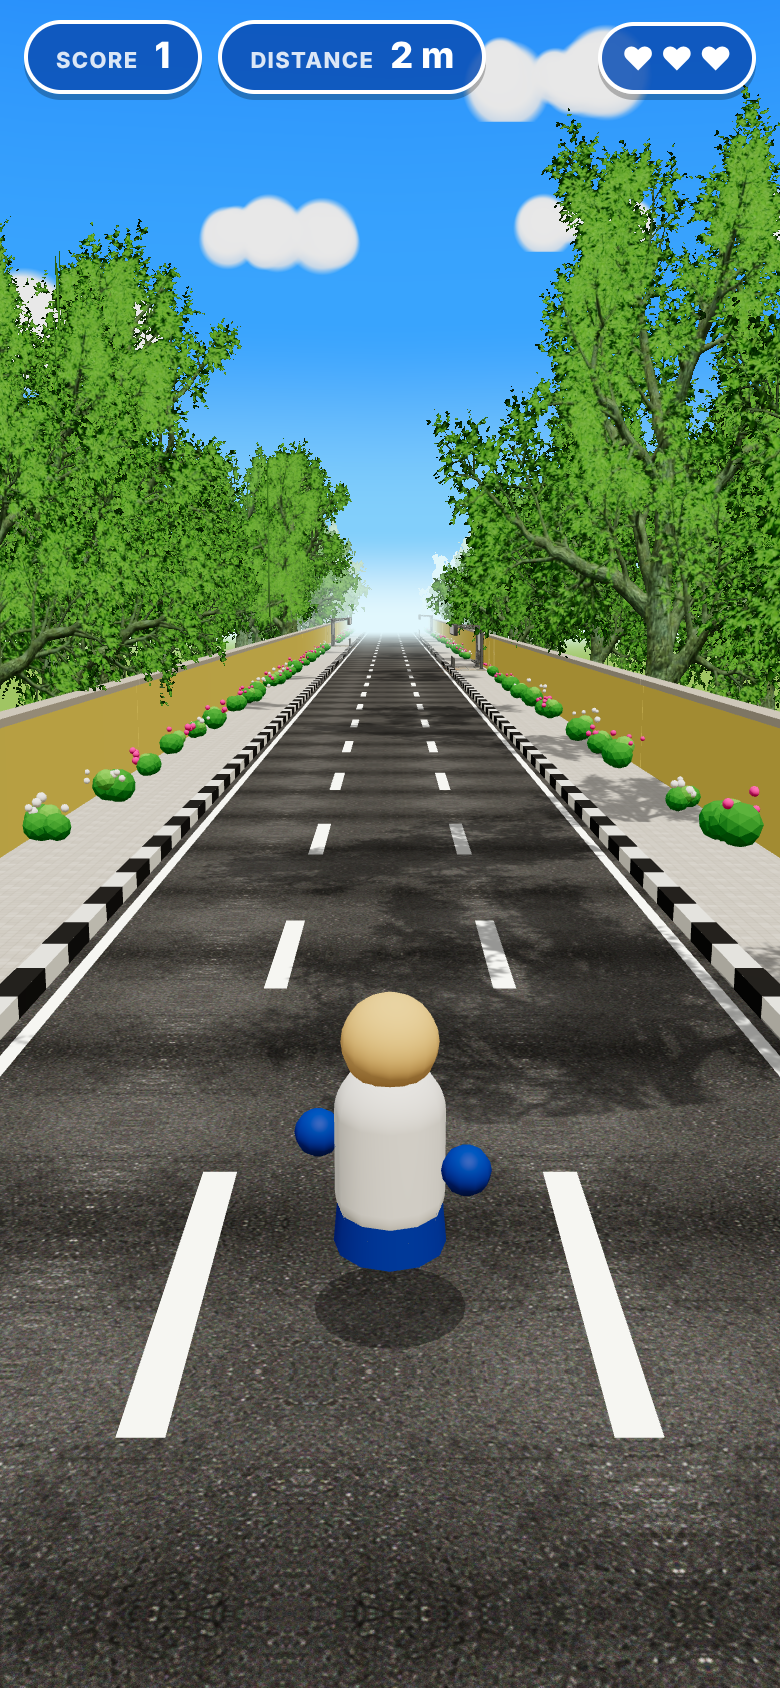
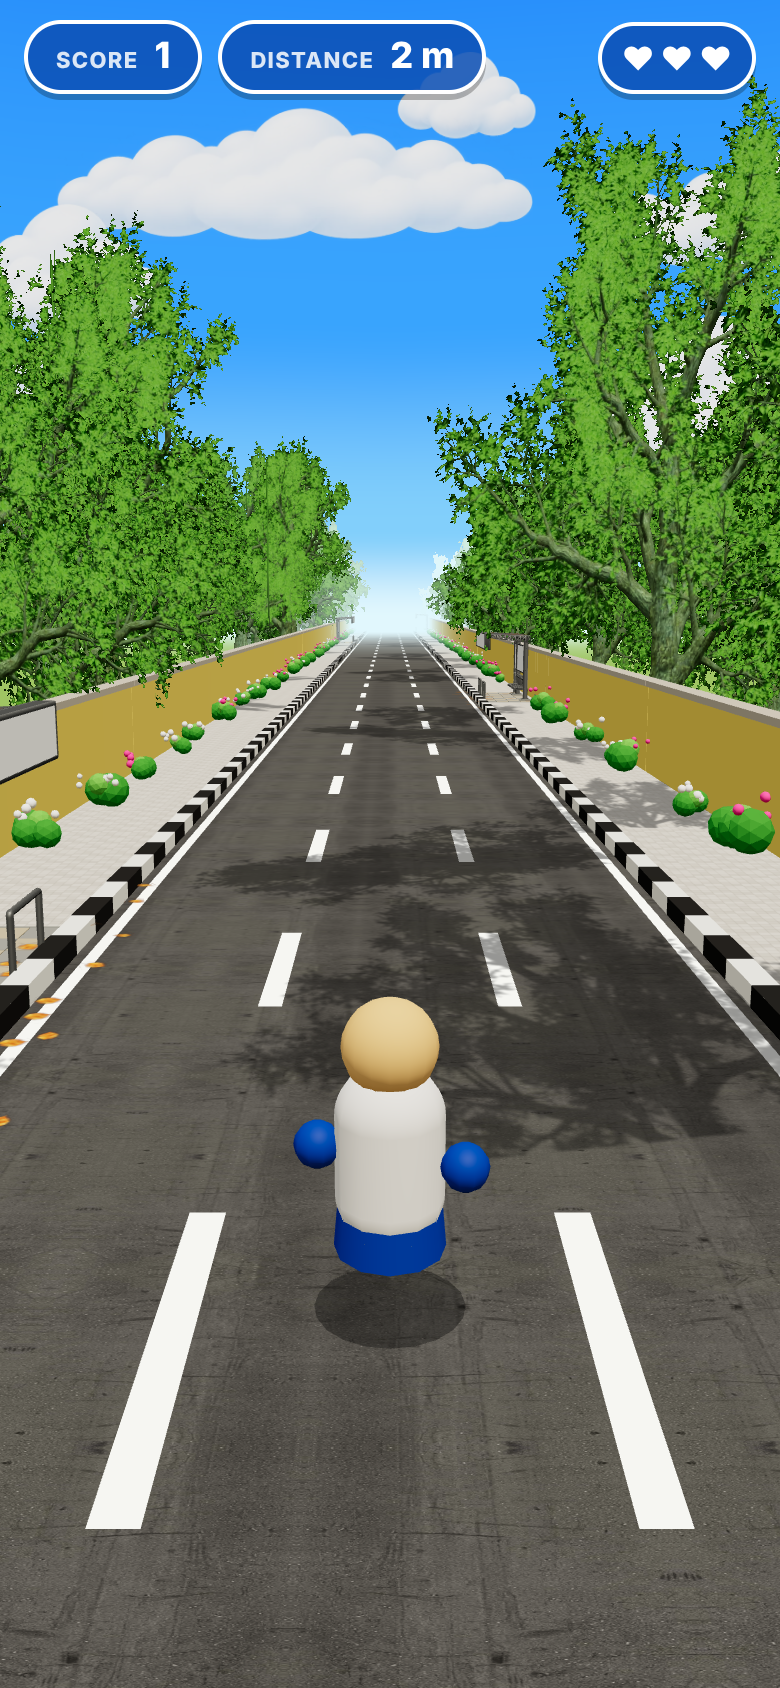
Sky: use the cartoon cloud art pack as sprites
- move cloud PNGs into assets/raw/clouds, add trim/resize/WebP step to pipeline
- hand-placed cloud composition around the vanishing point

Claude-Session: https://claude.ai/code/session_015MHPvXtKwbps1DwJmjDf5T

diff --git a/public/js/sky.js b/public/js/sky.js
@@ -1,6 +1,5 @@
 import * as THREE from 'three';
 import { COLORS } from './config.js';
-import { cloudTexture } from './textures.js';
 
 /** Cheap vertical-gradient sky dome. */
 export function createSky() {
@@ -37,23 +36,29 @@ export function createSky() {
   return sky;
 }
 
-/** Cumulus cloud sprites drifting far away on both sides of the road. */
-export function createClouds() {
+/**
+ * Cartoon cloud sprites from the art pack, laid out around the road's vanishing
+ * point: the big puffy one sits low and wide, the long banks float higher.
+ * Everything is far away so clouds barely move as the player runs.
+ */
+export function createClouds(clouds) {
   const group = new THREE.Group();
-  const mats = [cloudTexture(), cloudTexture(), cloudTexture()].map(
-    (map) => new THREE.SpriteMaterial({ map, transparent: true, depthWrite: false, fog: false }),
-  );
-  // Spread across the view above the road's vanishing point so several
-  // clouds sit inside a portrait phone frame.
-  for (let i = 0; i < 12; i++) {
-    const s = new THREE.Sprite(mats[i % mats.length]);
-    const x = (Math.random() - 0.5) * 340;
-    const z = -260 - Math.random() * 120;
-    const y = 45 + Math.random() * 110;
+  const mats = clouds.map((c) => new THREE.SpriteMaterial({ map: c.map, transparent: true, depthWrite: false, fog: false }));
+  const add = (i, x, y, z, width) => {
+    const s = new THREE.Sprite(mats[i]);
     s.position.set(x, y, z);
-    const w = 38 + Math.random() * 42;
-    s.scale.set(w, w * 0.5, 1);
+    s.scale.set(width, width / clouds[i].aspect, 1);
     group.add(s);
-  }
+  };
+  // Hand-placed composition (0-2: long banks, 3: big puff). Portrait phones
+  // see roughly x = ±100 at this depth; the outer ones appear in landscape.
+  add(3, 85, 58, -340, 70);
+  add(3, -95, 100, -380, 60);
+  add(0, -30, 138, -420, 150);
+  add(1, 125, 122, -400, 130);
+  add(2, -125, 66, -360, 120);
+  add(2, 205, 85, -390, 140);
+  add(0, -225, 90, -380, 140);
+  add(3, 25, 168, -440, 45);
   return group;
 }

diff --git a/public/js/assets.js b/public/js/assets.js
@@ -4,7 +4,7 @@ import { MeshoptDecoder } from 'three/addons/libs/meshopt_decoder.module.js';
 
 /**
  * Loads every runtime asset with one progress callback.
- * Returns { shelter, asphalt, shadows, trees: [{front, side, width, height}], leaf }.
+ * Returns { shelter, asphalt, shadows, clouds, trees: [{front, side, width, height}], leaf }.
  */
 export async function loadAssets(onProgress = () => {}) {
   const manager = new THREE.LoadingManager();
@@ -47,6 +47,7 @@ export async function loadAssets(onProgress = () => {}) {
     : fetch(url).then((r) => r.json());
 
   const treeMeta = await loadJson('assets/textures/trees.json');
+  const cloudMeta = await loadJson('assets/textures/clouds.json');
 
   const [shelterGltf, asphalt, shadows, leaf, aFront, aSide, bFront, bSide] = await Promise.all([
     loadGltf('assets/models/bus-shelter.glb'),
@@ -58,6 +59,10 @@ export async function loadAssets(onProgress = () => {}) {
     loadTex('assets/textures/tree-b-front.webp'),
     loadTex('assets/textures/tree-b-side.webp'),
   ]);
+  const clouds = await Promise.all([1, 2, 3, 4].map(async (n) => ({
+    map: await loadTex(`assets/textures/cloud-${n}.webp`),
+    aspect: cloudMeta[`cloud-${n}`].aspect,
+  })));
 
   const shelter = shelterGltf.scene;
   shelter.traverse((o) => {
@@ -73,6 +78,7 @@ export async function loadAssets(onProgress = () => {}) {
     asphalt,
     shadows,
     leaf,
+    clouds,
     trees: [
       { front: aFront, side: aSide, width: treeMeta.a.width, height: treeMeta.a.height },
       { front: bFront, side: bSide, width: treeMeta.b.width, height: treeMeta.b.height },

diff --git a/public/js/textures.js b/public/js/textures.js
@@ -58,30 +58,3 @@ export function dappleTexture() {
     }
   }, { srgb: false });
 }
-
-/** A puffy cumulus cloud sprite with a faint blue underside. */
-export function cloudTexture() {
-  return canvasTexture(512, 256, (ctx, w, h) => {
-    ctx.clearRect(0, 0, w, h);
-    const puffs = [];
-    for (let i = 0; i < 9; i++) {
-      puffs.push({ x: 90 + Math.random() * (w - 180), y: 120 + Math.random() * 60, r: 45 + Math.random() * 55 });
-    }
-    // shadowed base
-    for (const p of puffs) {
-      const g = ctx.createRadialGradient(p.x, p.y + 10, p.r * 0.2, p.x, p.y + 10, p.r * 1.05);
-      g.addColorStop(0, 'rgba(205,222,245,1)');
-      g.addColorStop(0.75, 'rgba(205,222,245,0.9)');
-      g.addColorStop(1, 'rgba(205,222,245,0)');
-      ctx.fillStyle = g; ctx.beginPath(); ctx.arc(p.x, p.y + 10, p.r * 1.05, 0, Math.PI * 2); ctx.fill();
-    }
-    // bright tops
-    for (const p of puffs) {
-      const g = ctx.createRadialGradient(p.x - p.r * 0.2, p.y - p.r * 0.35, p.r * 0.1, p.x, p.y - 6, p.r);
-      g.addColorStop(0, 'rgba(255,255,255,1)');
-      g.addColorStop(0.7, 'rgba(255,255,255,0.95)');
-      g.addColorStop(1, 'rgba(255,255,255,0)');
-      ctx.fillStyle = g; ctx.beginPath(); ctx.arc(p.x, p.y - 6, p.r, 0, Math.PI * 2); ctx.fill();
-    }
-  }, { repeat: false });
-}

diff --git a/public/js/main.js b/public/js/main.js
@@ -20,7 +20,7 @@ renderer.toneMappingExposure = 1.2;
 
 const scene = new THREE.Scene();
 scene.fog = new THREE.Fog(COLORS.fog, 80, 210);
-scene.add(createSky(), createClouds());
+scene.add(createSky());
 
 // Sun high and slightly behind the camera so both sides of the street are lit;
 // the hemisphere light fills the faces that look away from it.
@@ -84,6 +84,7 @@ document.getElementById('btn-retry').addEventListener('click', startRun);
 try {
   hud.setProgress(0.05, 'Loading world…');
   const assets = await loadAssets((p) => hud.setProgress(0.05 + p * 0.9));
+  scene.add(createClouds(assets.clouds));
   world = new World(scene, assets);
   player = new Player(scene);
   spawner = new Spawner(scene);
